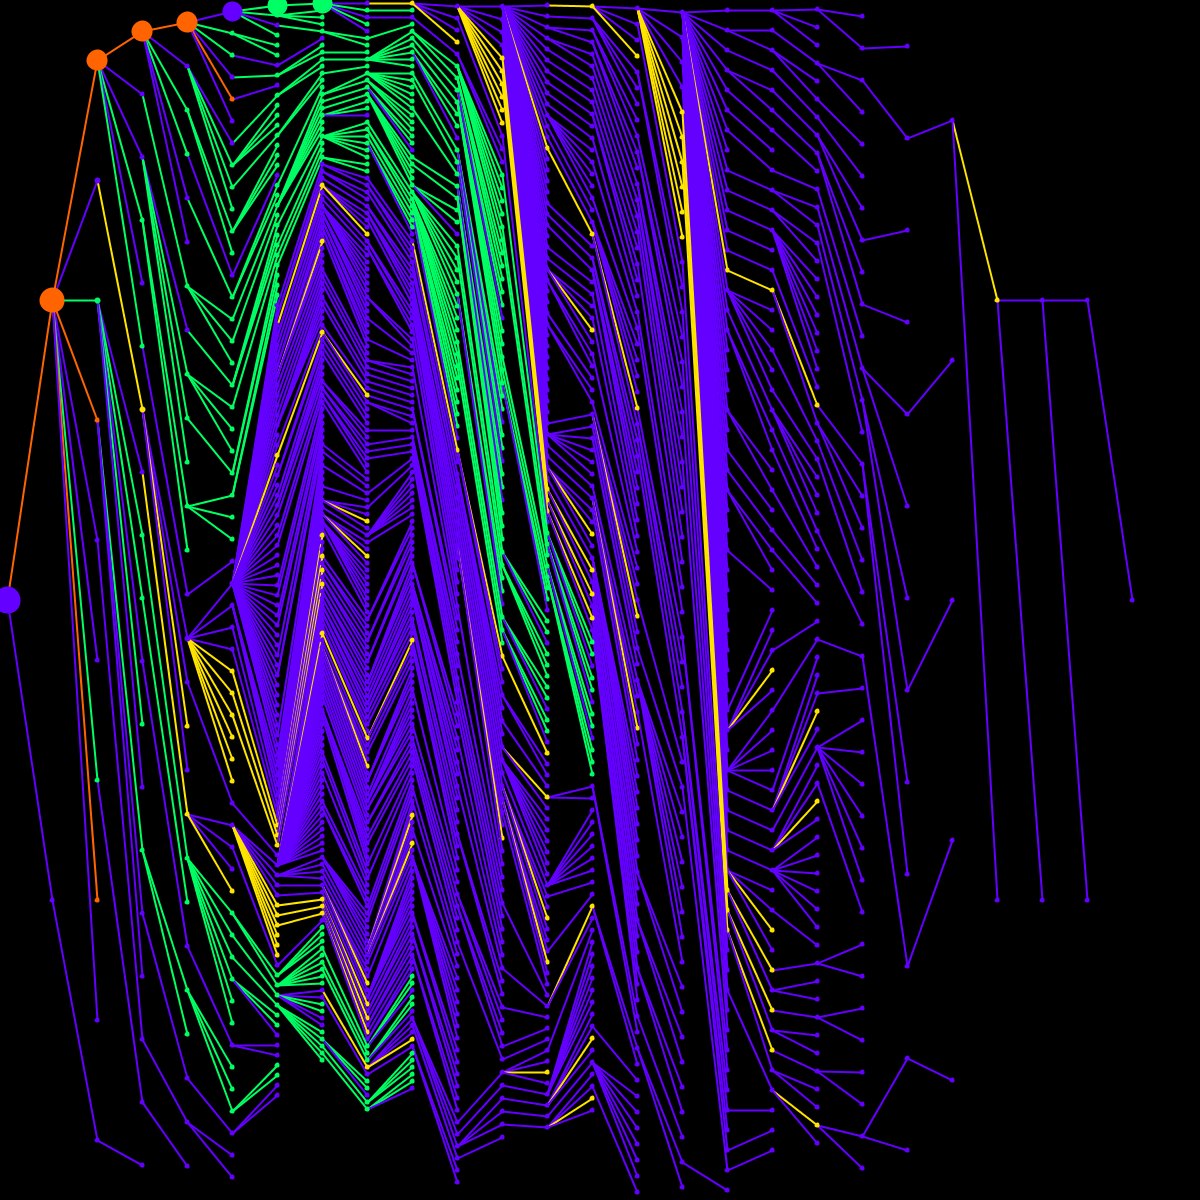
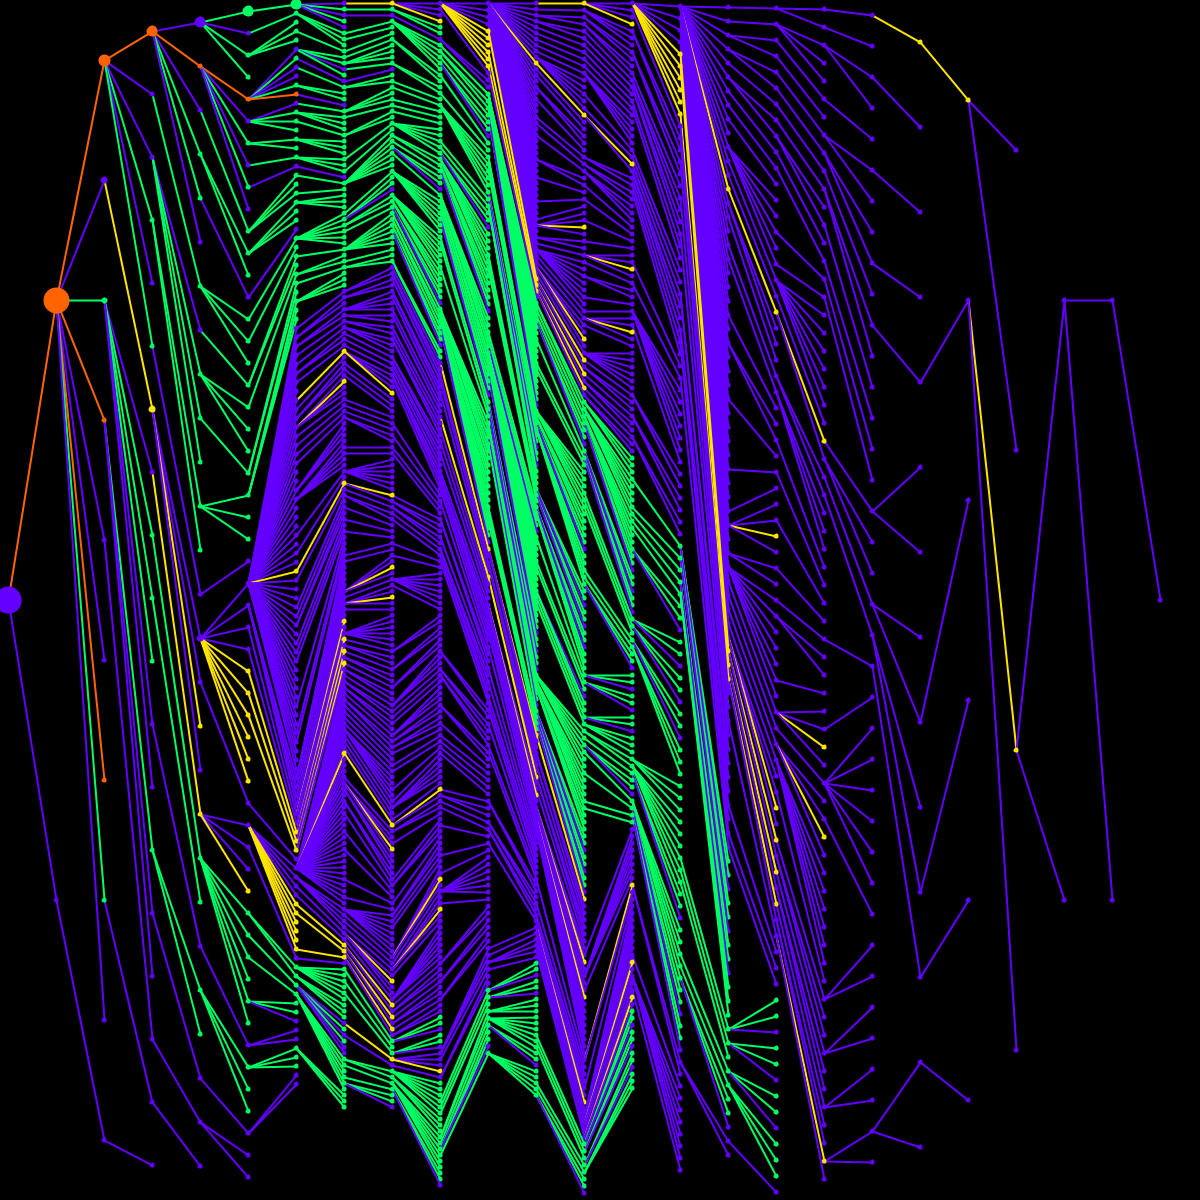
done

diff --git a/appExplorer/TreeDisplay/src/main/java/fr/inria/App.java b/appExplorer/TreeDisplay/src/main/java/fr/inria/App.java
@@ -46,7 +46,7 @@ public class App
         //generateCodeStrata(new File("inputsFiles/Sort/BoGoSortTest.properties"));
         //generateCodeStrata(new File("inputsFiles/Sort/BoGoSortTest_full.properties"));
 
-        Context.currentExec = PropertiesReader.readProperties(new File("inputsFiles/Sort/QuickSortTest_full.properties"));
+        Context.currentExec = PropertiesReader.readProperties(new File("inputsFiles/Sort/QuickSortTest.properties"));
         PApplet.main("fr.inria.View.CallTreeAlterView");
 
         /*Context.currentExec = PropertiesReader.readProperties(new File("inputsFiles/simple-java-editor/simple-java-editor.properties"));

diff --git a/appExplorer/TreeDisplay/src/main/java/fr/inria/View/CallTreeAlterView.java b/appExplorer/TreeDisplay/src/main/java/fr/inria/View/CallTreeAlterView.java
@@ -87,7 +87,9 @@ public class CallTreeAlterView  extends PApplet {
             fill(204, 102, 0);
             stroke(204, 102, 0);
         }*/
-        if(level != 0) {
+        if(false) {
+        //if(level > 1) {
+        //if(level != 0) {
 
             fill(0);
             stroke(0);

diff --git a/docs/gallery/QuickSort_r/Legend.md b/docs/gallery/QuickSort_r/Legend.md
@@ -1,0 +1,6 @@
+# Legend
+
+ * Orange: QuickSort
+ * Green: org.appache.commons.*
+ * Blue: java.*
+ * Yellow: sun.*
